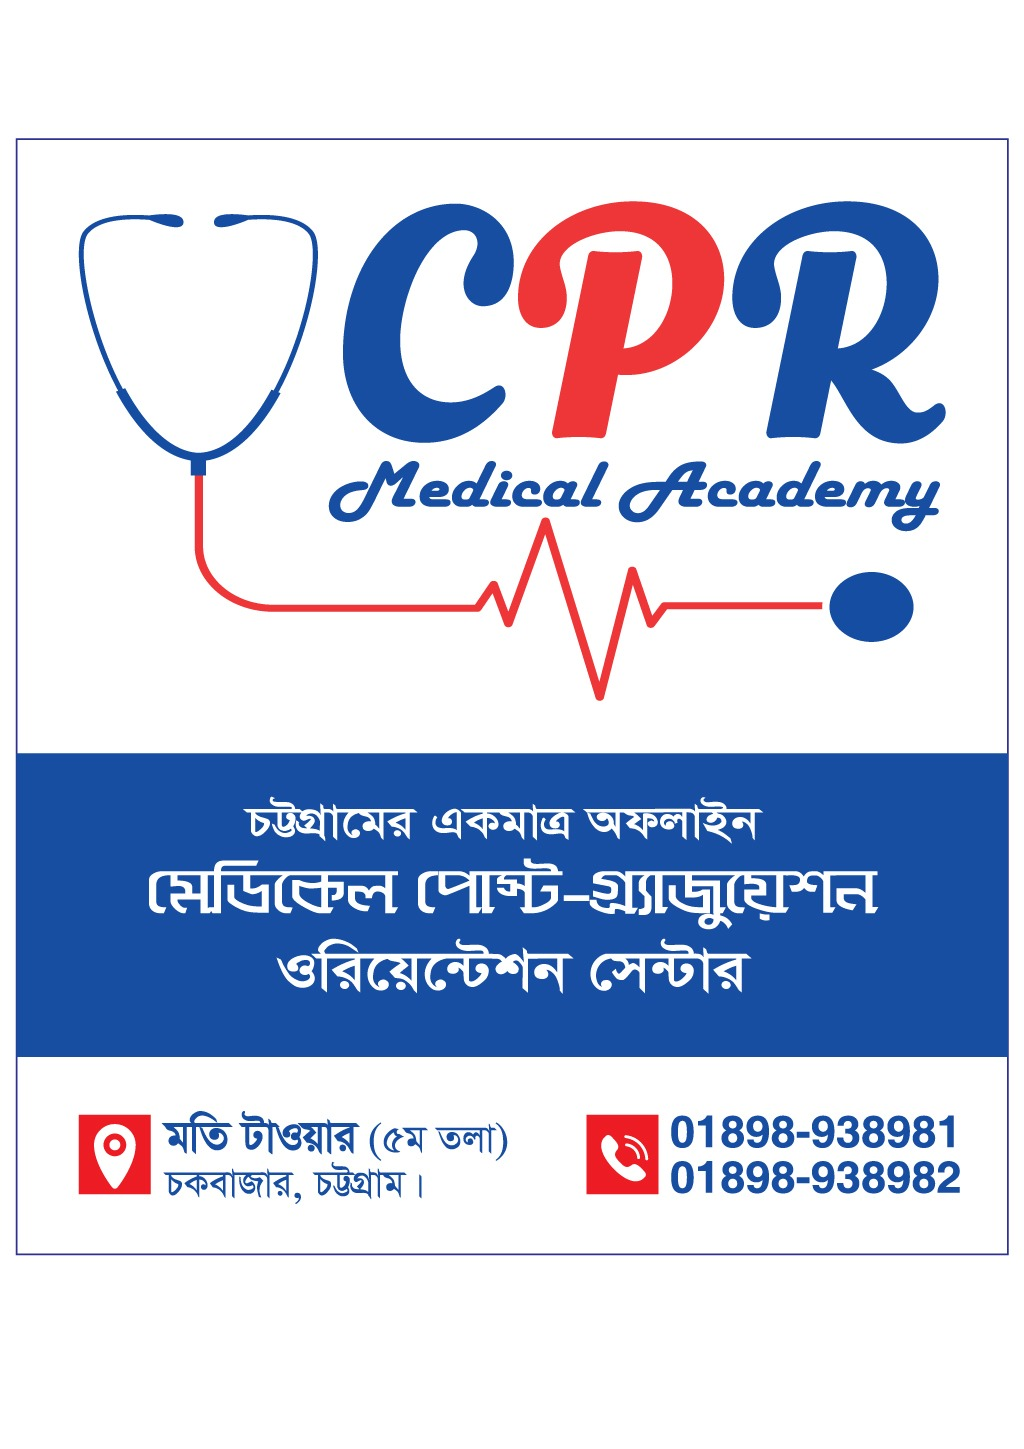
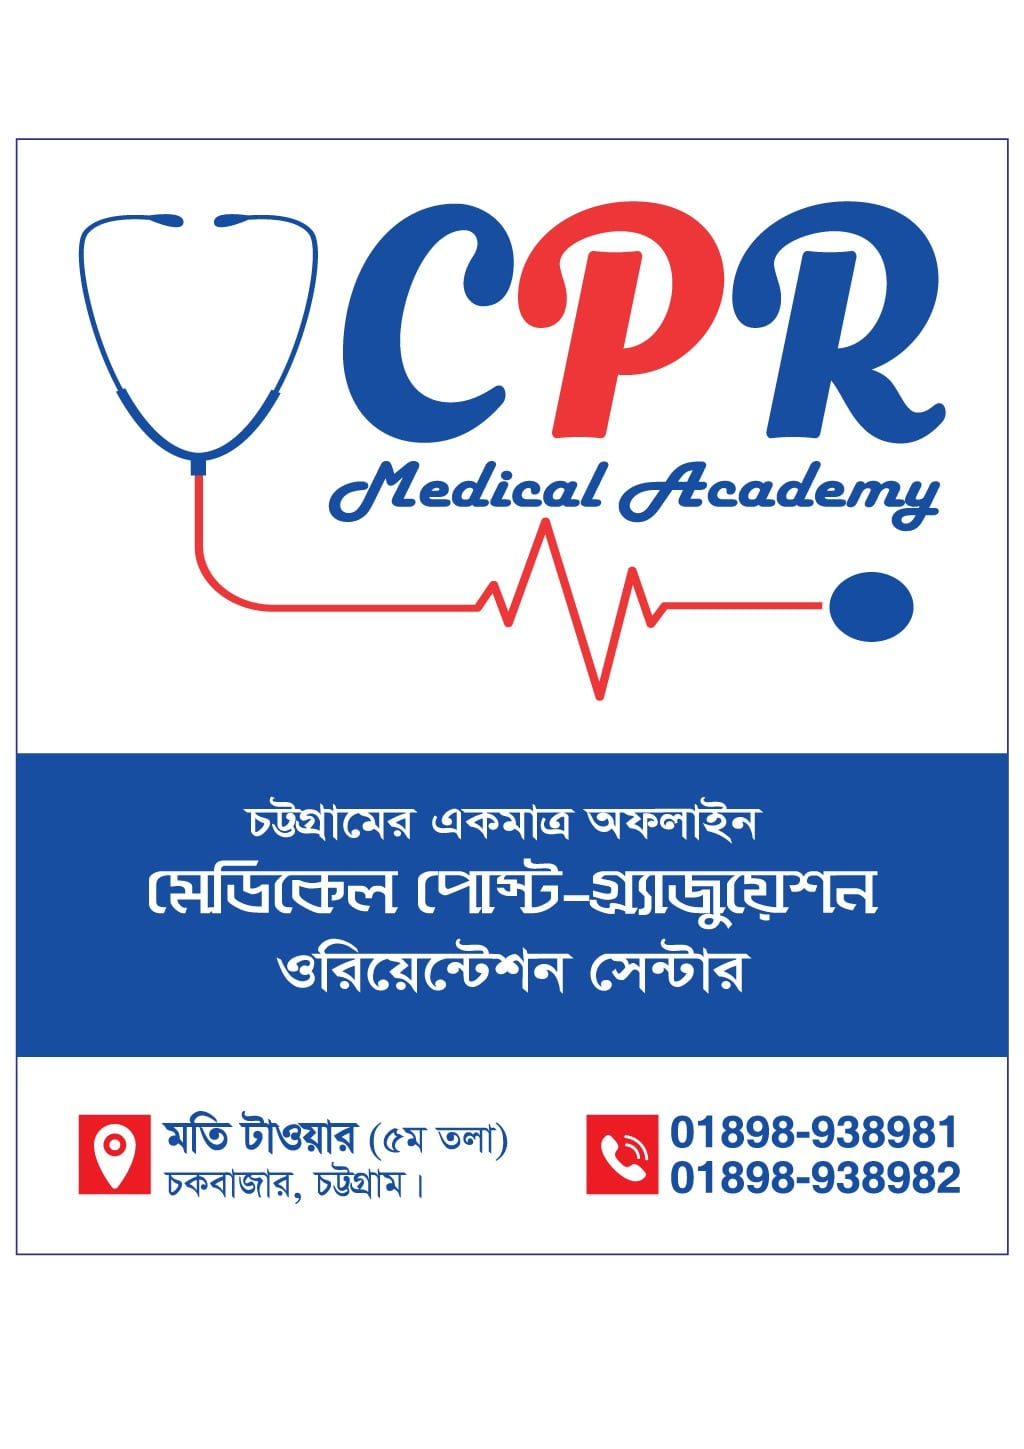
perf(frontend): cut homepage weight by two thirds and unblock first paint
Profiled the production build in a real browser. Four separate problems,
each measured before and after:

- useScrolled read window.scrollY straight out of a passive scroll
  handler. Every read forces a synchronous layout, and during load — with
  images arriving, fonts swapping and the carousel sizing itself — the
  document is dirty on nearly every one, so each read recalculated the
  whole page. Sourcemapped profiles put ~1040ms of the homepage's 1262ms
  blocking task in that one function. It now watches a hidden sentinel
  with an IntersectionObserver and never asks for layout at all.

- The hero portrait carried no intrinsic size, so the grid row had no
  height until it decoded; the resulting resize dragged the carousel with
  it and made embla re-measure. Width and height attributes fix the box
  before first paint.

- Loading placeholders were min-h-[60vh], which leaves the footer inside
  the viewport, so real content shoved it down on arrival. CourseDetail's
  CLS was 0.266. Full-height placeholders take it to 0.

- formatBDT/formatDate/formatDateTime built a fresh Intl formatter on
  every call — ~92ms across one homepage render. They are built once now;
  output is byte-identical.

Images were re-exported at display size (nothing paints wider than about
600 CSS px): 4.31 MB -> 1.32 MB with no visible quality change.

Homepage, median of 5 runs: transfer 4.4 MB -> 1.5 MB, FCP 2664ms ->
864ms, worst blocking task 790ms -> ~450ms (what remains is embla's own
[…]

Changed region(s): [[0.2812, 0.6522, 0.3125, 0.6832]]

diff --git a/frontend/src/hooks/useScrolled.js b/frontend/src/hooks/useScrolled.js
@@ -4,26 +4,50 @@ import { useEffect, useState } from 'react';
  * True once the page has scrolled past `threshold` pixels.
  *
  * Used by the navbar to swap between a transparent bar at the top of the page
- * and a solid one further down. The listener is passive so it never blocks
- * scrolling, and state only changes when the boolean flips — not on every
- * scroll event — so this doesn't re-render the header continuously.
+ * and a solid one further down.
+ *
+ * This watches a hidden sentinel with an IntersectionObserver rather than
+ * reading `window.scrollY` from a scroll handler. Reading the scroll position
+ * forces a synchronous layout, and while the homepage is still loading — images
+ * arriving, fonts swapping, the carousel sizing itself — the document is dirty
+ * on nearly every one of those reads, so each one recalculates the whole page.
+ * That alone accounted for about a second of blocked main thread on the
+ * homepage. The observer reports the same crossing without ever asking the
+ * browser to compute layout on demand.
  *
  * @param {number} [threshold=8]
  */
 export function useScrolled(threshold = 8) {
-  const [scrolled, setScrolled] = useState(
-    () => typeof window !== 'undefined' && window.scrollY > threshold,
-  );
+  const [scrolled, setScrolled] = useState(false);
 
   useEffect(() => {
-    const onScroll = () => {
-      const next = window.scrollY > threshold;
-      setScrolled((current) => (current === next ? current : next));
-    };
+    // A zero-width strip of exactly `threshold` pixels pinned to the top of the
+    // document: while any of it is on screen the page is within the threshold,
+    // and once it is fully scrolled past, it is not.
+    const sentinel = document.createElement('div');
+    sentinel.setAttribute('aria-hidden', 'true');
+    Object.assign(sentinel.style, {
+      position: 'absolute',
+      top: '0',
+      left: '0',
+      width: '1px',
+      height: `${Math.max(1, threshold)}px`,
+      pointerEvents: 'none',
+      visibility: 'hidden',
+    });
+    document.body.appendChild(sentinel);
 
-    onScroll(); // Catch a restored scroll position on mount.
-    window.addEventListener('scroll', onScroll, { passive: true });
-    return () => window.removeEventListener('scroll', onScroll);
+    // Fires once on observe, so the restored scroll position is picked up too.
+    const observer = new IntersectionObserver(
+      ([entry]) => setScrolled(!entry.isIntersecting),
+      { threshold: 0 },
+    );
+    observer.observe(sentinel);
+
+    return () => {
+      observer.disconnect();
+      sentinel.remove();
+    };
   }, [threshold]);
 
   return scrolled;

diff --git a/frontend/src/lib/utils.js b/frontend/src/lib/utils.js
@@ -6,34 +6,44 @@ export function cn(...inputs) {
   return twMerge(clsx(inputs));
 }
 
+// toLocaleString builds a fresh Intl formatter on every call, which is the
+// expensive part. A card grid calls these hundreds of times per render, so the
+// formatters are built once and reused.
+const BDT_FORMAT = new Intl.NumberFormat('en-BD');
+
 /** Format a number as Bangladeshi Taka, e.g. 4500 -> '৳4,500'. */
 export function formatBDT(amount) {
   if (amount == null) return '—';
-  return `৳${Number(amount).toLocaleString('en-BD')}`;
+  return `৳${BDT_FORMAT.format(Number(amount))}`;
 }
+
+const DATE_OPTIONS = { day: '2-digit', month: 'short', year: 'numeric' };
+const DATE_FORMAT = new Intl.DateTimeFormat('en-GB', DATE_OPTIONS);
 
 /** Format an ISO date as e.g. '12 Sep 2025'. */
 export function formatDate(iso, options) {
   if (!iso) return '—';
-  return new Date(iso).toLocaleDateString('en-GB', {
-    day: '2-digit',
-    month: 'short',
-    year: 'numeric',
-    ...options,
-  });
+  // Only the default shape is cached; a caller passing overrides still gets a
+  // one-off formatter, which is rare enough not to matter.
+  const format = options
+    ? new Intl.DateTimeFormat('en-GB', { ...DATE_OPTIONS, ...options })
+    : DATE_FORMAT;
+  return format.format(new Date(iso));
 }
+
+const DATETIME_FORMAT = new Intl.DateTimeFormat('en-GB', {
+  day: '2-digit',
+  month: 'short',
+  year: 'numeric',
+  hour: '2-digit',
+  minute: '2-digit',
+  hour12: true,
+});
 
 /** Format an ISO date-time as e.g. '12 Sep 2025, 08:00 PM'. */
 export function formatDateTime(iso) {
   if (!iso) return '—';
-  return new Date(iso).toLocaleString('en-GB', {
-    day: '2-digit',
-    month: 'short',
-    year: 'numeric',
-    hour: '2-digit',
-    minute: '2-digit',
-    hour12: true,
-  });
+  return DATETIME_FORMAT.format(new Date(iso));
 }
 
 /** Seconds -> 'HH:MM:SS' (or 'MM:SS' under an hour), for exam timers. */

diff --git a/frontend/src/features/marketing/components/Hero.jsx b/frontend/src/features/marketing/components/Hero.jsx
@@ -119,6 +119,12 @@ export default function Hero({
               src="/assets/spotlight/profileb.png"
               alt=""
               aria-hidden="true"
+              // Intrinsic size of the asset. Without it the row has no height
+              // until the portrait decodes, so the grid resizes on load and
+              // embla re-measures the carousel beside it — which cost about
+              // 450ms of forced layout on first paint.
+              width={1200}
+              height={1575}
               // Negative bottom margin lets the portrait bleed into the
               // section's padding; overflow-hidden on the section clips it.
               // The photo is the tallest item in the row, so changing its

diff --git a/frontend/src/components/ui/Spinner.jsx b/frontend/src/components/ui/Spinner.jsx
@@ -23,7 +23,7 @@ export default function Spinner({ size = 'md', label, className }) {
 /** Full-viewport loader for route-level Suspense fallbacks. */
 export function PageSpinner() {
   return (
-    <div className="flex min-h-[60vh] items-center justify-center">
+    <div className="flex min-h-screen items-center justify-center">
       <Spinner size="lg" label="Loading…" />
     </div>
   );

diff --git a/frontend/src/features/courses/CourseDetail.jsx b/frontend/src/features/courses/CourseDetail.jsx
@@ -29,7 +29,7 @@ export default function CourseDetail() {
 
   if (isLoading) {
     return (
-      <div className="flex min-h-[60vh] items-center justify-center bg-white dark:bg-surface-dark">
+      <div className="flex min-h-screen items-center justify-center bg-white dark:bg-surface-dark">
         <Spinner size="lg" label="Loading course details…" />
       </div>
     );

diff --git a/frontend/src/features/courses/CourseSchedule.jsx b/frontend/src/features/courses/CourseSchedule.jsx
@@ -116,7 +116,7 @@ export default function CourseSchedule() {
 
   if (isLoading) {
     return (
-      <div className="flex min-h-[60vh] items-center justify-center bg-white dark:bg-surface-dark">
+      <div className="flex min-h-screen items-center justify-center bg-white dark:bg-surface-dark">
         <Spinner size="lg" label="Loading schedule…" />
       </div>
     );

diff --git a/frontend/README.md b/frontend/README.md
@@ -62,13 +62,12 @@ moment those bodies are swapped.
 
 Known items worth resolving first:
 
-- `public/assets/spotlight/cpr logo.png` is **5.8 MB** and loads on every page
-  in the navbar and footer, where it renders at 72×72. Exporting it at 144×144
-  takes the homepage from roughly 10 MB to under 1 MB.
-- `profileb.png` (2.7 MB) and the six carousel posters (1.5 MB) are likewise far
-  larger than their display size.
-- `public/assets/spotlight/profile.jpeg` (1.9 MB) is referenced nowhere and can
-  be deleted.
+- `public/assets/spotlight/cpr logo.png` (5.7 MB) and `profile.jpeg` (1.8 MB)
+  are referenced nowhere — the navbar uses the 62 KB `cpr-logo.png`. Nothing
+  fetches them, so they cost deploy size only, but they can be deleted.
+- The posters and `profileb.png` were re-exported at display size: the homepage
+  now transfers 1.5 MB instead of 4.4 MB. Keep new artwork under ~1200 px on the
+  long edge, since nothing on the site paints wider than about 600 CSS px.
 - The dashboard, admin, auth and player routes are code-split via `React.lazy`
   in `src/app/router.jsx`. The entry chunk is 560 KB (173 KB gzipped); the
   marketing pages stay eager on purpose, since they are the landing surface.
